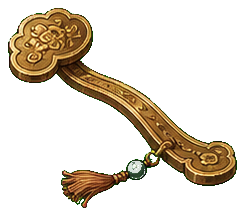
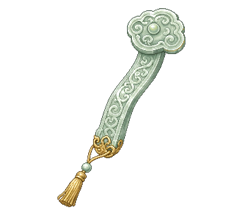
Redraw task42 furniture batch6

diff --git a/tools/cut_task42_furniture_batch6.py b/tools/cut_task42_furniture_batch6.py
@@ -1,0 +1,182 @@
+#!/usr/bin/env python3
+from pathlib import Path
+from PIL import Image, ImageDraw
+
+ROOT = Path(__file__).resolve().parents[1]
+SRC_DIR = ROOT / "assets/source/task42"
+
+ITEMS = {
+    "decor_brush": {
+        "src": "decor_brush_sheet_v1.png",
+        "out_dir": ROOT / "assets/furniture/decor",
+        "canvas": (143, 267),
+        "pad": 8,
+        "boxes": [
+            (210, 78, 438, 914),
+            (688, 80, 902, 914),
+            (1206, 104, 1388, 894),
+            (1604, 104, 1786, 920),
+        ],
+    },
+    "decor_inkstone": {
+        "src": "decor_inkstone_sheet_v1.png",
+        "out_dir": ROOT / "assets/furniture/decor",
+        "canvas": (301, 199),
+        "pad": 10,
+        "boxes": [
+            (22, 318, 498, 672),
+            (588, 318, 1028, 660),
+            (1058, 316, 1510, 658),
+            (1546, 316, 2014, 668),
+        ],
+    },
+    "decor_candle": {
+        "src": "decor_candle_sheet_v1.png",
+        "out_dir": ROOT / "assets/furniture/decor",
+        "canvas": (147, 292),
+        "pad": 8,
+        "boxes": [
+            (184, 112, 460, 890),
+            (668, 114, 928, 890),
+            (1162, 116, 1412, 900),
+            (1622, 116, 1872, 902),
+        ],
+    },
+    "decor_screen": {
+        "src": "decor_screen_sheet_v1.png",
+        "out_dir": ROOT / "assets/furniture/decor",
+        "canvas": (316, 269),
+        "pad": 10,
+        "boxes": [
+            (24, 134, 508, 872),
+            (514, 134, 1002, 872),
+            (1046, 154, 1536, 880),
+            (1530, 134, 2026, 884),
+        ],
+    },
+    "decor_ruyi": {
+        "src": "decor_ruyi_sheet_v1.png",
+        "out_dir": ROOT / "assets/furniture/decor",
+        "canvas": (245, 216),
+        "pad": 8,
+        "boxes": [
+            (28, 172, 488, 862),
+            (696, 172, 1054, 866),
+            (1152, 170, 1514, 864),
+            (1602, 170, 2020, 864),
+        ],
+    },
+}
+
+SUFFIXES = ["", "_r1", "_r2", "_r3"]
+
+
+def white_to_alpha(im):
+    im = im.convert("RGBA")
+    px = im.load()
+    for y in range(im.height):
+        for x in range(im.width):
+            r, g, b, a = px[x, y]
+            dist = max(0, 255 - min(r, g, b))
+            if r > 248 and g > 248 and b > 248:
+                px[x, y] = (r, g, b, 0)
+            elif r > 242 and g > 242 and b > 242:
+                px[x, y] = (r, g, b, min(a, dist * 5))
+    return im
+
+
+def remove_small_fragments(im, min_area=220):
+    alpha = im.getchannel("A")
+    w, h = im.size
+    pix = alpha.load()
+    seen = set()
+    comps = []
+    for y in range(h):
+        for x in range(w):
+            if pix[x, y] <= 8 or (x, y) in seen:
+                continue
+            stack = [(x, y)]
+            seen.add((x, y))
+            pts = []
+            while stack:
+                px, py = stack.pop()
+                pts.append((px, py))
+                for nx in (px - 1, px, px + 1):
+                    for ny in (py - 1, py, py + 1):
+                        if nx < 0 or ny < 0 or nx >= w or ny >= h or (nx, ny) in seen:
+                            continue
+                        if pix[nx, ny] > 8:
+                            seen.add((nx, ny))
+                            stack.append((nx, ny))
+            comps.append(pts)
+    keep = set()
+    for pts in comps:
+        if len(pts) >= min_area:
+            keep.update(pts)
+    out = Image.new("RGBA", im.size, (0, 0, 0, 0))
+    src = im.load()
+    dst = out.load()
+    for x, y in keep:
+        dst[x, y] = src[x, y]
+    return out
+
+
+def strip_edge_alpha(im):
+    px = im.load()
+    w, h = im.size
+    for x in range(w):
+        px[x, 0] = px[x, 0][:3] + (0,)
+        px[x, h - 1] = px[x, h - 1][:3] + (0,)
+    for y in range(h):
+        px[0, y] = px[0, y][:3] + (0,)
+        px[w - 1, y] = px[w - 1, y][:3] + (0,)
+    return im
+
+
+def fit_canvas(crop, canvas, pad):
+    crop = remove_small_fragments(white_to_alpha(crop))
+    bbox = crop.getchannel("A").getbbox()
+    out = Image.new("RGBA", canvas, (0, 0, 0, 0))
+    if not bbox:
+        return out
+    spr = crop.crop(bbox)
+    max_w = canvas[0] - pad * 2
+    max_h = canvas[1] - pad * 2
+    scale = min(max_w / spr.width, max_h / spr.height)
+    nw = max(1, int(spr.width * scale))
+    nh = max(1, int(spr.height * scale))
+    spr = spr.resize((nw, nh), Image.Resampling.LANCZOS)
+    out.alpha_composite(spr, ((canvas[0] - nw) // 2, canvas[1] - pad - nh))
+    return strip_edge_alpha(remove_small_fragments(out))
+
+
+def make_preview(paths, out_path):
+    cell_w = max(Image.open(p).width for p in paths) + 22
+    cell_h = max(Image.open(p).height for p in paths) + 42
+    rows = (len(paths) + 3) // 4
+    preview = Image.new("RGBA", (cell_w * 4, cell_h * rows), (232, 229, 218, 255))
+    d = ImageDraw.Draw(preview)
+    for idx, path in enumerate(paths):
+        im = Image.open(path).convert("RGBA")
+        x = (idx % 4) * cell_w + (cell_w - im.width) // 2
+        y = (idx // 4) * cell_h + 10
+        preview.alpha_composite(im, (x, y))
+        d.text(((idx % 4) * cell_w + 8, y + im.height + 8), path.stem, fill=(0, 0, 0, 255))
+    preview.save(out_path)
+
+
+def main():
+    written = []
+    for item_id, cfg in ITEMS.items():
+        sheet = Image.open(SRC_DIR / cfg["src"]).convert("RGBA")
+        cfg["out_dir"].mkdir(parents=True, exist_ok=True)
+        for suffix, box in zip(SUFFIXES, cfg["boxes"]):
+            out = fit_canvas(sheet.crop(box), cfg["canvas"], cfg["pad"])
+            path = cfg["out_dir"] / f"{item_id}{suffix}.png"
+            out.save(path)
+            written.append(path)
+    make_preview(written, ROOT / "preview_task42_furniture_batch6_x2.png")
+
+
+if __name__ == "__main__":
+    main()
